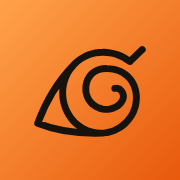
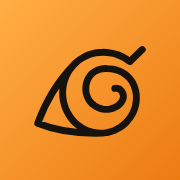
Use Naruto's jumpsuit orange for the accent color
The accent moves from a red-leaning orange (#ff7a1a, shading to
#e8590c) to a golden jumpsuit orange based on the commonly cited
#E6842E, brightened for the dark background: #f68b22, with #ffa23c
for highlights and #ec7b12 for gradient ends. All glows, the
background tint and the app icons are updated to match.

Claude-Session: https://claude.ai/code/session_01PXX2vHTUgEoF6GB3LsNDLY

diff --git a/styles.css b/styles.css
@@ -26,11 +26,11 @@
   --text: #f6efe8;
   --muted: #b5a99e;
   --faint: #8a7e74;
-  --accent: #ff7a1a;
-  --accent-strong: #ff9440;
-  --accent-deep: #e8590c;
+  --accent: #f68b22;
+  --accent-strong: #ffa23c;
+  --accent-deep: #ec7b12;
   --accent-ink: #1a1009;
-  --accent-glow: rgb(255 122 26 / 0.35);
+  --accent-glow: rgb(246 139 34 / 0.35);
 
   /* Episode colours: canon green, filler red */
   --canon: #34d399;
@@ -74,13 +74,13 @@ body::before {
   content: "";
   position: fixed; inset: 0; z-index: -1; pointer-events: none;
   background:
-    radial-gradient(ellipse 90% 45% at 50% -8%, rgb(255 122 26 / 0.20), transparent 70%),
-    radial-gradient(ellipse 50% 35% at 100% 10%, rgb(255 70 20 / 0.08), transparent 70%),
+    radial-gradient(ellipse 90% 45% at 50% -8%, rgb(246 139 34 / 0.20), transparent 70%),
+    radial-gradient(ellipse 50% 35% at 100% 10%, rgb(240 110 10 / 0.08), transparent 70%),
     radial-gradient(ellipse 45% 30% at 0% 35%, rgb(255 160 60 / 0.05), transparent 70%);
 }
 
 a { color: var(--accent-strong); text-underline-offset: 2px; }
-a:hover { color: #ffb070; }
+a:hover { color: #ffbe6e; }
 
 button, input { font: inherit; color: inherit; }
 button { cursor: pointer; }
@@ -121,7 +121,7 @@ button { cursor: pointer; }
 .brand-mark {
   flex: none; display: grid; place-items: center;
   width: 42px; height: 42px; border-radius: 12px;
-  background: linear-gradient(135deg, #ffa24a, var(--accent-deep));
+  background: linear-gradient(135deg, #ffae45, var(--accent-deep));
   box-shadow: inset 0 -3px 0 rgb(0 0 0 / 0.18), 0 6px 18px -6px var(--accent-glow);
 }
 .brand-leaf {
@@ -133,7 +133,7 @@ button { cursor: pointer; }
   font-size: 1.75rem; line-height: 1; letter-spacing: 0.035em;
 }
 .h1-accent {
-  background: linear-gradient(180deg, #ffb35c, var(--accent) 70%);
+  background: linear-gradient(180deg, #ffbb5a, var(--accent) 70%);
   -webkit-background-clip: text; background-clip: text; color: transparent;
 }
 .subtitle { margin: 3px 0 0; color: var(--muted); font-size: 0.82rem; }
@@ -151,7 +151,7 @@ button { cursor: pointer; }
 .tabs [role="tab"]:hover { color: var(--text); }
 .tabs [role="tab"][aria-selected="true"] {
   color: var(--accent-ink);
-  background: linear-gradient(135deg, #ffa24a, var(--accent));
+  background: linear-gradient(135deg, #ffae45, var(--accent));
   box-shadow: 0 4px 14px -4px var(--accent-glow);
 }
 
@@ -182,16 +182,16 @@ h3.card-title { font-size: 1.3rem; }
 .card p:first-of-type { margin-top: 0; }
 
 /* The progress card gets a faint diagonal "speed line" texture and an orange edge */
-.hero { overflow: hidden; border-color: rgb(255 122 26 / 0.22); }
+.hero { overflow: hidden; border-color: rgb(246 139 34 / 0.22); }
 .hero::before {
   content: ""; position: absolute; inset: 0; pointer-events: none;
-  background: repeating-linear-gradient(115deg, rgb(255 160 80 / 0.045) 0 2px, transparent 2px 14px);
+  background: repeating-linear-gradient(115deg, rgb(255 175 70 / 0.045) 0 2px, transparent 2px 14px);
   -webkit-mask-image: linear-gradient(200deg, #000 0%, transparent 45%);
   mask-image: linear-gradient(200deg, #000 0%, transparent 45%);
 }
 .hero::after {
   content: ""; position: absolute; left: 0; right: 0; top: 0; height: 3px; pointer-events: none;
-  background: linear-gradient(90deg, transparent, var(--accent) 30%, #ffb35c 60%, transparent);
+  background: linear-gradient(90deg, transparent, var(--accent) 30%, #ffbb5a 60%, transparent);
   opacity: 0.8;
 }
 .hero > * { position: relative; }
@@ -204,10 +204,10 @@ h3.card-title { font-size: 1.3rem; }
 .ring { --p: 0; position: relative; flex: none; width: 108px; height: 108px; transition: --p 0.7s cubic-bezier(.2,.8,.2,1); }
 .ring-track {
   position: absolute; inset: 0; border-radius: 50%;
-  background: conic-gradient(#ffb35c, var(--accent) calc(var(--p) * 1%), rgb(255 240 225 / 0.08) 0);
+  background: conic-gradient(#ffbb5a, var(--accent) calc(var(--p) * 1%), rgb(255 240 225 / 0.08) 0);
   -webkit-mask: radial-gradient(farthest-side, transparent calc(100% - 11px), #000 calc(100% - 10px));
   mask: radial-gradient(farthest-side, transparent calc(100% - 11px), #000 calc(100% - 10px));
-  filter: drop-shadow(0 0 8px rgb(255 122 26 / 0.35));
+  filter: drop-shadow(0 0 8px rgb(246 139 34 / 0.35));
 }
 .ring-inner { position: absolute; inset: 0; display: grid; place-content: center; text-align: center; }
 .ring-value { font-family: var(--display); font-size: 2.1rem; line-height: 0.9; letter-spacing: 0.02em; }
@@ -220,8 +220,8 @@ h3.card-title { font-size: 1.3rem; }
 .progress-track { height: 9px; background: rgb(255 240 225 / 0.07); border-radius: 99px; overflow: hidden; }
 .progress-bar {
   height: 100%; width: 0; border-radius: 99px;
-  background: linear-gradient(90deg, var(--accent-deep), #ffb35c);
-  box-shadow: 0 0 10px rgb(255 122 26 / 0.45);
+  background: linear-gradient(90deg, var(--accent-deep), #ffbb5a);
+  box-shadow: 0 0 10px rgb(246 139 34 / 0.45);
   transition: width 0.5s cubic-bezier(.2,.8,.2,1);
 }
 .progress-bar--canon { background: linear-gradient(90deg, #059669, var(--canon)); box-shadow: 0 0 10px rgb(52 211 153 / 0.35); }
@@ -253,13 +253,13 @@ h3.card-title { font-size: 1.3rem; }
 .btn:hover { background: var(--surface-3); }
 .btn:active { transform: translateY(1px) scale(0.99); }
 .btn-primary {
-  background: linear-gradient(135deg, #ffa24a, var(--accent) 55%, var(--accent-deep));
+  background: linear-gradient(135deg, #ffae45, var(--accent) 55%, var(--accent-deep));
   border-color: transparent; color: var(--accent-ink);
   display: inline-flex; flex-direction: column; align-items: flex-start; text-align: left;
   flex: 1 1 220px; min-width: 0; padding: 10px 18px;
-  box-shadow: 0 10px 24px -10px rgb(255 122 26 / 0.75), inset 0 1px 0 rgb(255 255 255 / 0.25);
+  box-shadow: 0 10px 24px -10px rgb(246 139 34 / 0.75), inset 0 1px 0 rgb(255 255 255 / 0.25);
 }
-.btn-primary:hover { background: linear-gradient(135deg, #ffb35c, var(--accent-strong) 55%, var(--accent)); }
+.btn-primary:hover { background: linear-gradient(135deg, #ffbb5a, var(--accent-strong) 55%, var(--accent)); }
 .btn-main { font-size: 1.02rem; font-weight: 750; }
 .btn-main::after { content: " →"; content: " →" / ""; } /* decorative: hidden from screen readers */
 .btn-sub { font-size: 0.8rem; font-weight: 550; opacity: 0.82; max-width: 100%; overflow: hidden; text-overflow: ellipsis; white-space: nowrap; }
@@ -305,7 +305,7 @@ h3.card-title { font-size: 1.3rem; }
   transition: border-color 0.15s, box-shadow 0.15s;
 }
 .search input::placeholder { color: var(--faint); }
-.search input:focus { border-color: var(--accent); outline: none; box-shadow: 0 0 0 4px rgb(255 122 26 / 0.18); }
+.search input:focus { border-color: var(--accent); outline: none; box-shadow: 0 0 0 4px rgb(246 139 34 / 0.18); }
 
 .filters { display: flex; flex-wrap: wrap; gap: 8px; margin-top: 12px; }
 .filter {
@@ -383,13 +383,13 @@ h3.card-title { font-size: 1.3rem; }
 .episode[data-type="canon"] { --c: var(--canon); }
 .episode[data-type="filler"] { --c: var(--filler); }
 
-.episode.is-watched { background: linear-gradient(90deg, rgb(255 122 26 / 0.07), transparent 45%), #171310; }
+.episode.is-watched { background: linear-gradient(90deg, rgb(246 139 34 / 0.07), transparent 45%), #171310; }
 .episode.is-watched .ep-title { color: var(--muted); }
 .episode.is-watched .ep-number { color: var(--accent); }
 
 .episode.is-highlight { animation: highlight 1.8s ease; }
 @keyframes highlight {
-  0%, 30% { border-color: var(--accent); box-shadow: 0 0 0 3px rgb(255 122 26 / 0.4), 0 0 24px rgb(255 122 26 / 0.3); }
+  0%, 30% { border-color: var(--accent); box-shadow: 0 0 0 3px rgb(246 139 34 / 0.4), 0 0 24px rgb(246 139 34 / 0.3); }
   100% { border-color: var(--border); box-shadow: none; }
 }
 
@@ -403,7 +403,7 @@ h3.card-title { font-size: 1.3rem; }
 .ep-check:hover .box { border-color: var(--accent); }
 .ep-check .box svg { width: 16px; height: 16px; stroke: var(--accent-ink); stroke-width: 3.2; fill: none; stroke-linecap: round; stroke-linejoin: round; opacity: 0; }
 .ep-check input:checked + .box {
-  background: linear-gradient(135deg, #ffa24a, var(--accent)); border-color: var(--accent);
+  background: linear-gradient(135deg, #ffae45, var(--accent)); border-color: var(--accent);
   box-shadow: 0 0 12px -2px var(--accent-glow);
 }
 .ep-check input:checked + .box svg { opacity: 1; }
@@ -430,10 +430,10 @@ h3.card-title { font-size: 1.3rem; }
 .stat-value { font-family: var(--display); font-weight: 400; font-size: 2.3rem; line-height: 0.95; letter-spacing: 0.02em; }
 .stat-label { font-size: 0.78rem; color: var(--muted); }
 .stat--accent {
-  border-color: rgb(255 122 26 / 0.35);
-  background: linear-gradient(135deg, rgb(255 122 26 / 0.16), rgb(255 122 26 / 0.04));
+  border-color: rgb(246 139 34 / 0.35);
+  background: linear-gradient(135deg, rgb(246 139 34 / 0.16), rgb(246 139 34 / 0.04));
 }
-.stat--accent .stat-value { color: var(--accent-strong); text-shadow: 0 0 18px rgb(255 122 26 / 0.35); }
+.stat--accent .stat-value { color: var(--accent-strong); text-shadow: 0 0 18px rgb(246 139 34 / 0.35); }
 
 /* In the guide, "on" squares are the ones to watch */
 #guide-map .cell { cursor: pointer; }
@@ -460,7 +460,7 @@ h3.card-title { font-size: 1.3rem; }
 }
 .app-footer::before {
   content: ""; display: block; width: 48px; height: 3px; margin: 8px auto 16px; border-radius: 99px;
-  background: linear-gradient(90deg, var(--accent-deep), #ffb35c);
+  background: linear-gradient(90deg, var(--accent-deep), #ffbb5a);
 }
 .app-footer p { margin: 6px 0; }
 
@@ -478,10 +478,10 @@ h3.card-title { font-size: 1.3rem; }
 .get-app {
   margin-left: auto; flex: none; display: inline-flex; align-items: center; gap: 6px;
   min-height: 36px; padding: 6px 12px; border-radius: 99px;
-  background: rgb(255 122 26 / 0.12); border: 1px solid rgb(255 122 26 / 0.45); color: var(--accent-strong);
+  background: rgb(246 139 34 / 0.12); border: 1px solid rgb(246 139 34 / 0.45); color: var(--accent-strong);
   font-weight: 700; font-size: 0.85rem; transition: background 0.15s, color 0.15s;
 }
-.get-app:hover { background: rgb(255 122 26 / 0.22); color: #ffb070; }
+.get-app:hover { background: rgb(246 139 34 / 0.22); color: #ffbe6e; }
 .get-app svg { width: 16px; height: 16px; fill: none; stroke: currentColor; stroke-width: 2.4; stroke-linecap: round; stroke-linejoin: round; }
 
 .sheet {
@@ -489,14 +489,14 @@ h3.card-title { font-size: 1.3rem; }
   overflow: auto; overscroll-behavior: contain;
   background: var(--surface); color: var(--text);
   border: 1px solid var(--border-strong); border-radius: 22px;
-  box-shadow: 0 30px 80px -20px rgb(0 0 0 / 0.8), 0 0 0 1px rgb(255 122 26 / 0.15);
+  box-shadow: 0 30px 80px -20px rgb(0 0 0 / 0.8), 0 0 0 1px rgb(246 139 34 / 0.15);
 }
 .sheet::backdrop { background: rgb(8 6 5 / 0.7); backdrop-filter: blur(3px); -webkit-backdrop-filter: blur(3px); }
 .sheet[open] { animation: sheet-in 0.28s cubic-bezier(.2,.9,.3,1); }
 @keyframes sheet-in { from { opacity: 0; transform: translateY(24px); } }
 .sheet-inner {
   position: relative; padding: 20px 20px calc(18px + var(--safe-bottom));
-  background: linear-gradient(180deg, rgb(255 122 26 / 0.10), transparent 120px);
+  background: linear-gradient(180deg, rgb(246 139 34 / 0.10), transparent 120px);
 }
 .sheet-head { display: flex; align-items: flex-start; gap: 12px; margin-bottom: 14px; }
 .sheet-mark { width: 48px; height: 48px; border-radius: 13px; }
@@ -529,7 +529,7 @@ h3.card-title { font-size: 1.3rem; }
 .steps li::before {
   content: counter(step); position: absolute; left: 0; top: -1px;
   width: 28px; height: 28px; border-radius: 50%; display: grid; place-items: center;
-  background: linear-gradient(135deg, #ffa24a, var(--accent)); color: var(--accent-ink);
+  background: linear-gradient(135deg, #ffae45, var(--accent)); color: var(--accent-ink);
   font-family: var(--display); font-size: 1.05rem; padding-top: 1px;
 }
 .steps strong { color: var(--text); }
@@ -559,10 +559,10 @@ h3.card-title { font-size: 1.3rem; }
 .sync-buttons { display: flex; flex-wrap: wrap; gap: 8px; }
 .sync-buttons .btn { flex: 1 1 140px; }
 .btn-primary-sm {
-  background: linear-gradient(135deg, #ffa24a, var(--accent)); border-color: transparent; color: var(--accent-ink);
-  box-shadow: 0 8px 20px -10px rgb(255 122 26 / 0.75);
+  background: linear-gradient(135deg, #ffae45, var(--accent)); border-color: transparent; color: var(--accent-ink);
+  box-shadow: 0 8px 20px -10px rgb(246 139 34 / 0.75);
 }
-.btn-primary-sm:hover { background: linear-gradient(135deg, #ffb35c, var(--accent-strong)); }
+.btn-primary-sm:hover { background: linear-gradient(135deg, #ffbb5a, var(--accent-strong)); }
 .btn:disabled { opacity: 0.55; cursor: progress; }
 
 .sync-join { display: flex; gap: 8px; margin-top: 10px; }
@@ -572,7 +572,7 @@ h3.card-title { font-size: 1.3rem; }
   font-size: 16px; letter-spacing: 0.06em; text-transform: uppercase; font-variant-numeric: tabular-nums;
 }
 .sync-join input::placeholder { text-transform: none; letter-spacing: 0.04em; color: var(--faint); }
-.sync-join input:focus { border-color: var(--accent); outline: none; box-shadow: 0 0 0 4px rgb(255 122 26 / 0.18); }
+.sync-join input:focus { border-color: var(--accent); outline: none; box-shadow: 0 0 0 4px rgb(246 139 34 / 0.18); }
 
 .sync-code {
   font-family: ui-monospace, "SF Mono", Menlo, Consolas, monospace; font-size: 0.95rem; font-weight: 700;

diff --git a/tools/make-icons.js b/tools/make-icons.js
@@ -105,7 +105,7 @@ function iconSvg({ size, rounded, scale, stroke }) {
   const o = (512 - s) / 2;
   return `<svg xmlns="http://www.w3.org/2000/svg" viewBox="0 0 512 512" width="${size}" height="${size}">
   <defs><linearGradient id="bg" x1="0" y1="0" x2="1" y2="1">
-    <stop offset="0" stop-color="#ffa24a"/><stop offset="1" stop-color="#e8590c"/></linearGradient></defs>
+    <stop offset="0" stop-color="#ffae45"/><stop offset="1" stop-color="#ec7b12"/></linearGradient></defs>
   <rect width="512" height="512" rx="${rounded ? 112 : 0}" fill="url(#bg)"/>
   <g transform="translate(${o.toFixed(1)} ${(o + 6 * scale).toFixed(1)}) scale(${(s / 100).toFixed(4)})">
     <path d="${LEAF}" fill="none" stroke="${INK}" stroke-width="${stroke}" stroke-linecap="round" stroke-linejoin="round"/>
